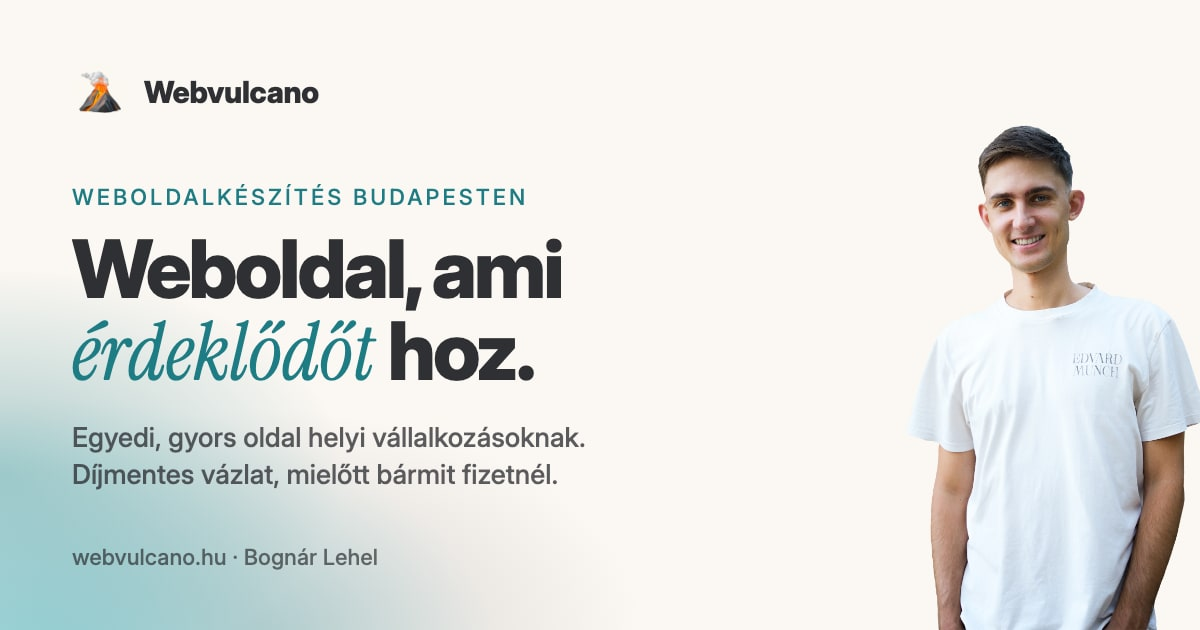
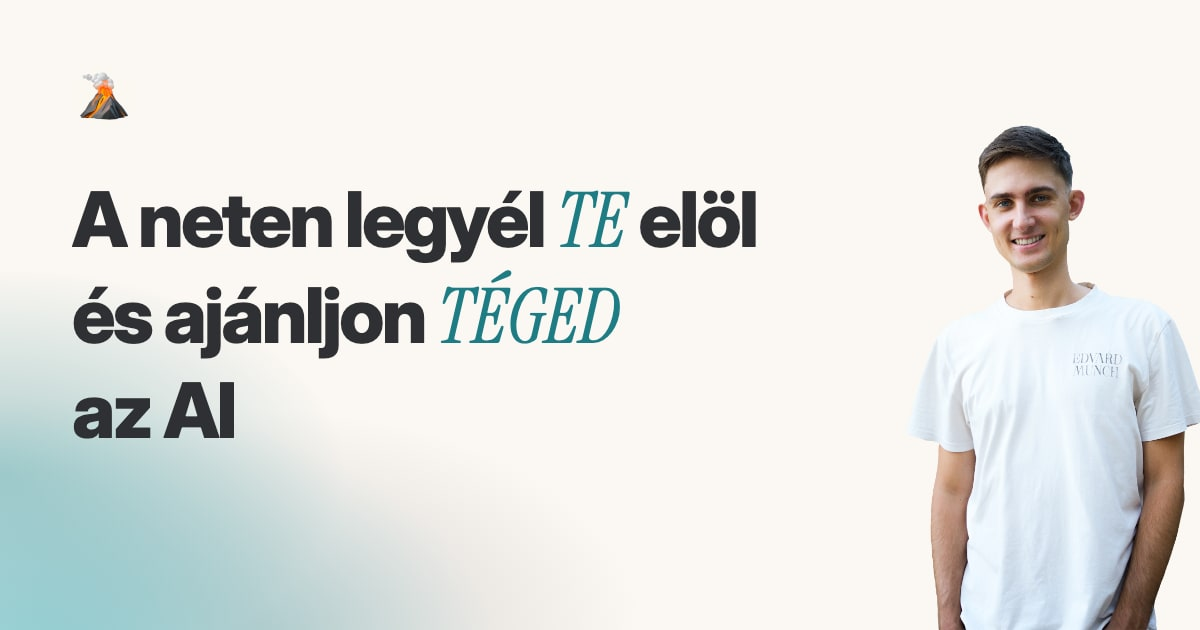
OG fix

Changed region(s): [[0.0617, 0.3016, 0.6475, 0.7841], [0.0617, 0.1206, 0.2775, 0.2111], [0.0617, 0.8746, 0.3083, 0.9048]]

diff --git a/content/og/og-image.html b/content/og/og-image.html
@@ -9,22 +9,20 @@ body{background:#fbf7f2;color:#2e3033;font-family:Inter,sans-serif;position:rela
   radial-gradient(55% 60% at 3% 105%, color-mix(in oklab,#2bb3c0 45%,transparent) 0%, transparent 70%),
   radial-gradient(45% 50% at 22% 100%, color-mix(in oklab,#7c8085 30%,transparent) 0%, transparent 70%),
   radial-gradient(40% 45% at 0% 75%, color-mix(in oklab,#1e7c85 35%,transparent) 0%, transparent 72%);}
-.wrap{position:absolute;left:72px;top:64px;bottom:60px;width:700px;display:flex;flex-direction:column}
+.wrap{position:absolute;left:72px;top:64px;bottom:64px;width:820px;display:flex;flex-direction:column;justify-content:center}
+.logo{position:absolute;top:0;left:0;width:64px;height:64px;border-radius:50%}
 .brand{display:flex;align-items:center;gap:16px;font-weight:800;font-size:30px;letter-spacing:-.01em}
 .brand img{width:56px;height:56px;border-radius:50%}
 .eyebrow{margin-top:64px;font-weight:500;font-size:22px;letter-spacing:.14em;text-transform:uppercase;color:#1e7c85}
-h1{margin-top:18px;font-weight:800;font-size:80px;line-height:1.02;letter-spacing:-.035em}
+h1{white-space:nowrap;font-weight:800;font-size:76px;line-height:1.22;letter-spacing:-.035em}
 em{font-family:"Instrument Serif",serif;font-weight:400;font-style:italic;letter-spacing:0;color:#1e7c85}
 p{margin-top:26px;font-size:27px;line-height:1.35;font-weight:500;color:rgba(46,48,51,.78);max-width:600px}
 .url{margin-top:auto;font-weight:500;font-size:22px;color:rgba(46,48,51,.7)}
 .portrait{position:absolute;right:-10px;bottom:0;height:600px}
 </style></head><body>
 <div class="wrap">
- <div class="brand"><img src="../../public/brand/logo.webp" alt="">Webvulcano</div>
- <div class="eyebrow">Weboldalkészítés Budapesten</div>
- <h1>Weboldal, ami <em>érdeklődőt</em> hoz.</h1>
- <p>Egyedi, gyors oldal helyi vállalkozásoknak. Díjmentes vázlat, mielőtt bármit fizetnél.</p>
- <div class="url">webvulcano.hu · Bognár Lehel</div>
+ <img class="logo" src="../../public/brand/logo.webp" alt="">
+ <h1>A neten legyél <em>TE</em> elöl<br>és ajánljon <em>TÉGED</em><br>az AI</h1>
 </div>
 <img class="portrait" src="../../src/assets/hero.webp" alt="">
 </body></html>
